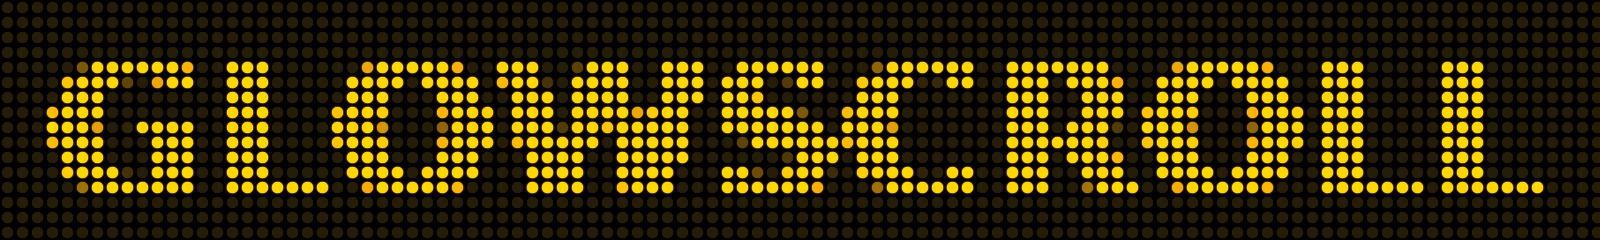
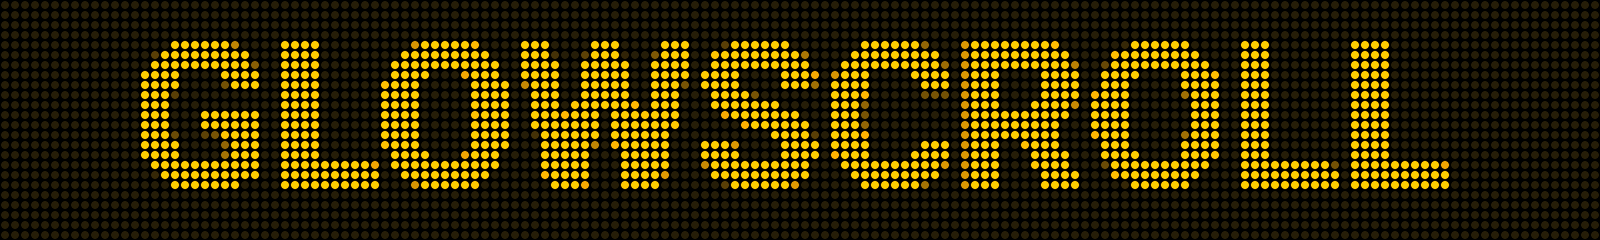
Home: scroll the hero LED sign, glow buttons on hover and focus
The hero sign now scrolls like the app: one LED per step at the app's
default 16 LEDs a second, from an image drawn with the app's LED shader
(store/tools/site-sign.mjs in the app repo), which also redraws the
still sign. A pause button (WCAG 2.2.2) sits in its corner. Buttons get
a soft amber glow and a focus outline on hover and keyboard focus.
All motion is off for visitors who ask for reduced motion; they see the
still sign.

Claude-Session: https://claude.ai/code/session_011DchUK9c9tsQmXLM6a8urF

diff --git a/assets/css/style.css b/assets/css/style.css
@@ -243,6 +243,36 @@ img {
   color: var(--accent-text);
 }
 
+/* A soft amber glow on hover and keyboard focus, like a lit LED. It lights
+   once and stays; nothing loops. The fade only plays for visitors who
+   haven't asked for reduced motion. */
+.btn-primary:hover,
+.btn-primary:focus-visible,
+.nav-links a.nav-cta:hover,
+.nav-links a.nav-cta:focus-visible {
+  box-shadow: 0 0 18px rgba(255, 176, 0, 0.45);
+}
+
+.btn-ghost:hover,
+.btn-ghost:focus-visible,
+.btn-outline:hover,
+.btn-outline:focus-visible {
+  box-shadow: 0 0 14px rgba(255, 176, 0, 0.2);
+}
+
+.btn:focus-visible,
+.nav-links a.nav-cta:focus-visible {
+  outline: 2px solid var(--accent);
+  outline-offset: 3px;
+}
+
+@media (prefers-reduced-motion: no-preference) {
+  .btn,
+  .nav-links a.nav-cta {
+    transition: box-shadow 0.2s ease, background-color 0.2s ease, border-color 0.2s ease, color 0.2s ease;
+  }
+}
+
 /* Sections */
 
 section {
@@ -876,9 +906,87 @@ footer {
   border: 1px solid var(--border);
   background: #000;
   overflow: hidden;
+  position: relative;
 }
 .led-sign svg {
   display: block;
   width: 100%;
   height: 100%;
+}
+
+/* The scrolling sign. Off by default: the still image shows for visitors who
+   ask for reduced motion, and in browsers without container units.
+   hero-sign-scroll.png is one loop of the app's default banner (24 rows,
+   16 LEDs a second), drawn with the app's LED shader by
+   store/tools/site-sign.mjs in the app repo, which prints the loop length
+   (--sign-loop and the steps() count below must both match it). The
+   track holds two loops side by side and moves one LED per step, like the
+   app, so the dot grid stays put while the text moves across it. */
+.led-scroll,
+.led-pause {
+  display: none;
+}
+
+@media (prefers-reduced-motion: no-preference) {
+  @supports (height: 1cqh) {
+    .led-sign {
+      container-type: size;
+    }
+
+    .led-scroll {
+      --sign-loop: 299; /* LEDs per loop; site-sign.mjs prints it */
+      --led: calc(100cqh / 24); /* one LED; the sign is 24 rows */
+      display: block;
+      position: absolute;
+      inset: 0;
+      background: #000;
+    }
+
+    .led-scroll-track {
+      height: 100%;
+      width: calc(var(--led) * var(--sign-loop) * 2);
+      background: url('/assets/img/hero-sign-scroll.png') left top / auto 100% repeat-x;
+      animation: led-scroll calc(var(--sign-loop) * 1s / 16) steps(299) infinite;
+    }
+
+    .led-sign.paused .led-scroll-track {
+      animation-play-state: paused;
+    }
+
+    .led-pause {
+      display: grid;
+      place-items: center;
+      position: absolute;
+      right: 6px;
+      bottom: 6px;
+      width: 24px;
+      height: 24px;
+      padding: 0;
+      border-radius: 50%;
+      border: 1px solid var(--border);
+      background: rgba(11, 11, 13, 0.8);
+      color: var(--text-muted);
+      cursor: pointer;
+      opacity: 0.55;
+      transition: opacity 0.2s ease;
+    }
+
+    .led-pause:hover,
+    .led-pause:focus-visible,
+    .led-sign.paused .led-pause {
+      opacity: 1;
+      color: var(--text);
+    }
+
+    .led-pause:focus-visible {
+      outline: 2px solid var(--accent);
+      outline-offset: 2px;
+    }
+  }
+}
+
+@keyframes led-scroll {
+  to {
+    transform: translateX(calc(var(--led) * var(--sign-loop) * -1));
+  }
 }

diff --git a/assets/js/main.js b/assets/js/main.js
@@ -41,6 +41,30 @@ document.addEventListener('DOMContentLoaded', () => {
     document.querySelector('header a')?.focus({ preventScroll: true });
   });
 
+  // Pause button for the scrolling hero sign (moving content needs one,
+  // WCAG 2.2.2). CSS shows it only while the sign scrolls.
+  const sign = document.querySelector('.led-scroll')?.closest('.led-sign');
+  if (sign) {
+    const pause = document.createElement('button');
+    pause.type = 'button';
+    pause.className = 'led-pause';
+    const icons = {
+      pause: '<rect x="6" y="5" width="4" height="14" rx="1"/><rect x="14" y="5" width="4" height="14" rx="1"/>',
+      play: '<path d="M8 5.5v13a1 1 0 0 0 1.5.86l10-6.5a1 1 0 0 0 0-1.72l-10-6.5A1 1 0 0 0 8 5.5z"/>',
+    };
+    const show = (paused) => {
+      sign.classList.toggle('paused', paused);
+      pause.setAttribute('aria-label', paused ? 'Play the scrolling sign' : 'Pause the scrolling sign');
+      pause.innerHTML =
+        '<svg viewBox="0 0 24 24" width="12" height="12" fill="currentColor" aria-hidden="true">' +
+        (paused ? icons.play : icons.pause) +
+        '</svg>';
+    };
+    show(false);
+    pause.addEventListener('click', () => show(!sign.classList.contains('paused')));
+    sign.appendChild(pause);
+  }
+
   // FAQ search filter (faq.html only)
   const search = document.getElementById('faq-search');
   if (!search) return;

diff --git a/index.html b/index.html
@@ -148,6 +148,7 @@
         <div class="hero-art">
           <div class="led-sign">
             <img src="/assets/img/hero-sign.png" width="1600" height="240" alt="GLOWSCROLL in amber LED dots on a black sign." style="width:100%;height:100%;object-fit:contain" />
+            <div class="led-scroll" aria-hidden="true"><div class="led-scroll-track"></div></div>
           </div>
         </div>
       </div>

diff --git a/README.md b/README.md
@@ -20,7 +20,7 @@ assets/img/            favicons, app icon, og-image.png (1200×630), LED sign im
 .nojekyll              tells GitHub Pages not to run Jekyll (needed later for .well-known/)
 ```
 
-The LED sign images and icons were drawn with the app's own LED shader and icon (`scripts/make-icons.mjs` in the app repo). They stay: the hero sign and `og-image.png` show the real LED look, which reads better at those sizes than a screenshot (decided 2026-11-06). `assets/img/screens/*.webp` (home page "See it in action": concert, home, editor, templates, sports) are five of the app's App Store screenshots, rendered from the real app. When those are re-rendered, refresh them from the app repo with `python3 store/tools/site-screens.py ../glowscroll.lixlink.com`, and check the alt text in `index.html` still describes them.
+The LED sign images and icons were drawn with the app's own LED shader and icon (`scripts/make-icons.mjs` in the app repo). The hero sign (`hero-sign.png`, plus `hero-sign-scroll.png`, which `style.css` scrolls one LED at a time for visitors who haven't asked for reduced motion, with a pause button from `main.js`) comes from `store/tools/site-sign.mjs` in the app repo. They stay: the hero sign and `og-image.png` show the real LED look, which reads better at those sizes than a screenshot (decided 2026-11-06). `assets/img/screens/*.webp` (home page "See it in action": concert, home, editor, templates, sports) are five of the app's App Store screenshots, rendered from the real app. When those are re-rendered, refresh them from the app repo with `python3 store/tools/site-screens.py ../glowscroll.lixlink.com`, and check the alt text in `index.html` still describes them.
 
 ## Deployment
 
